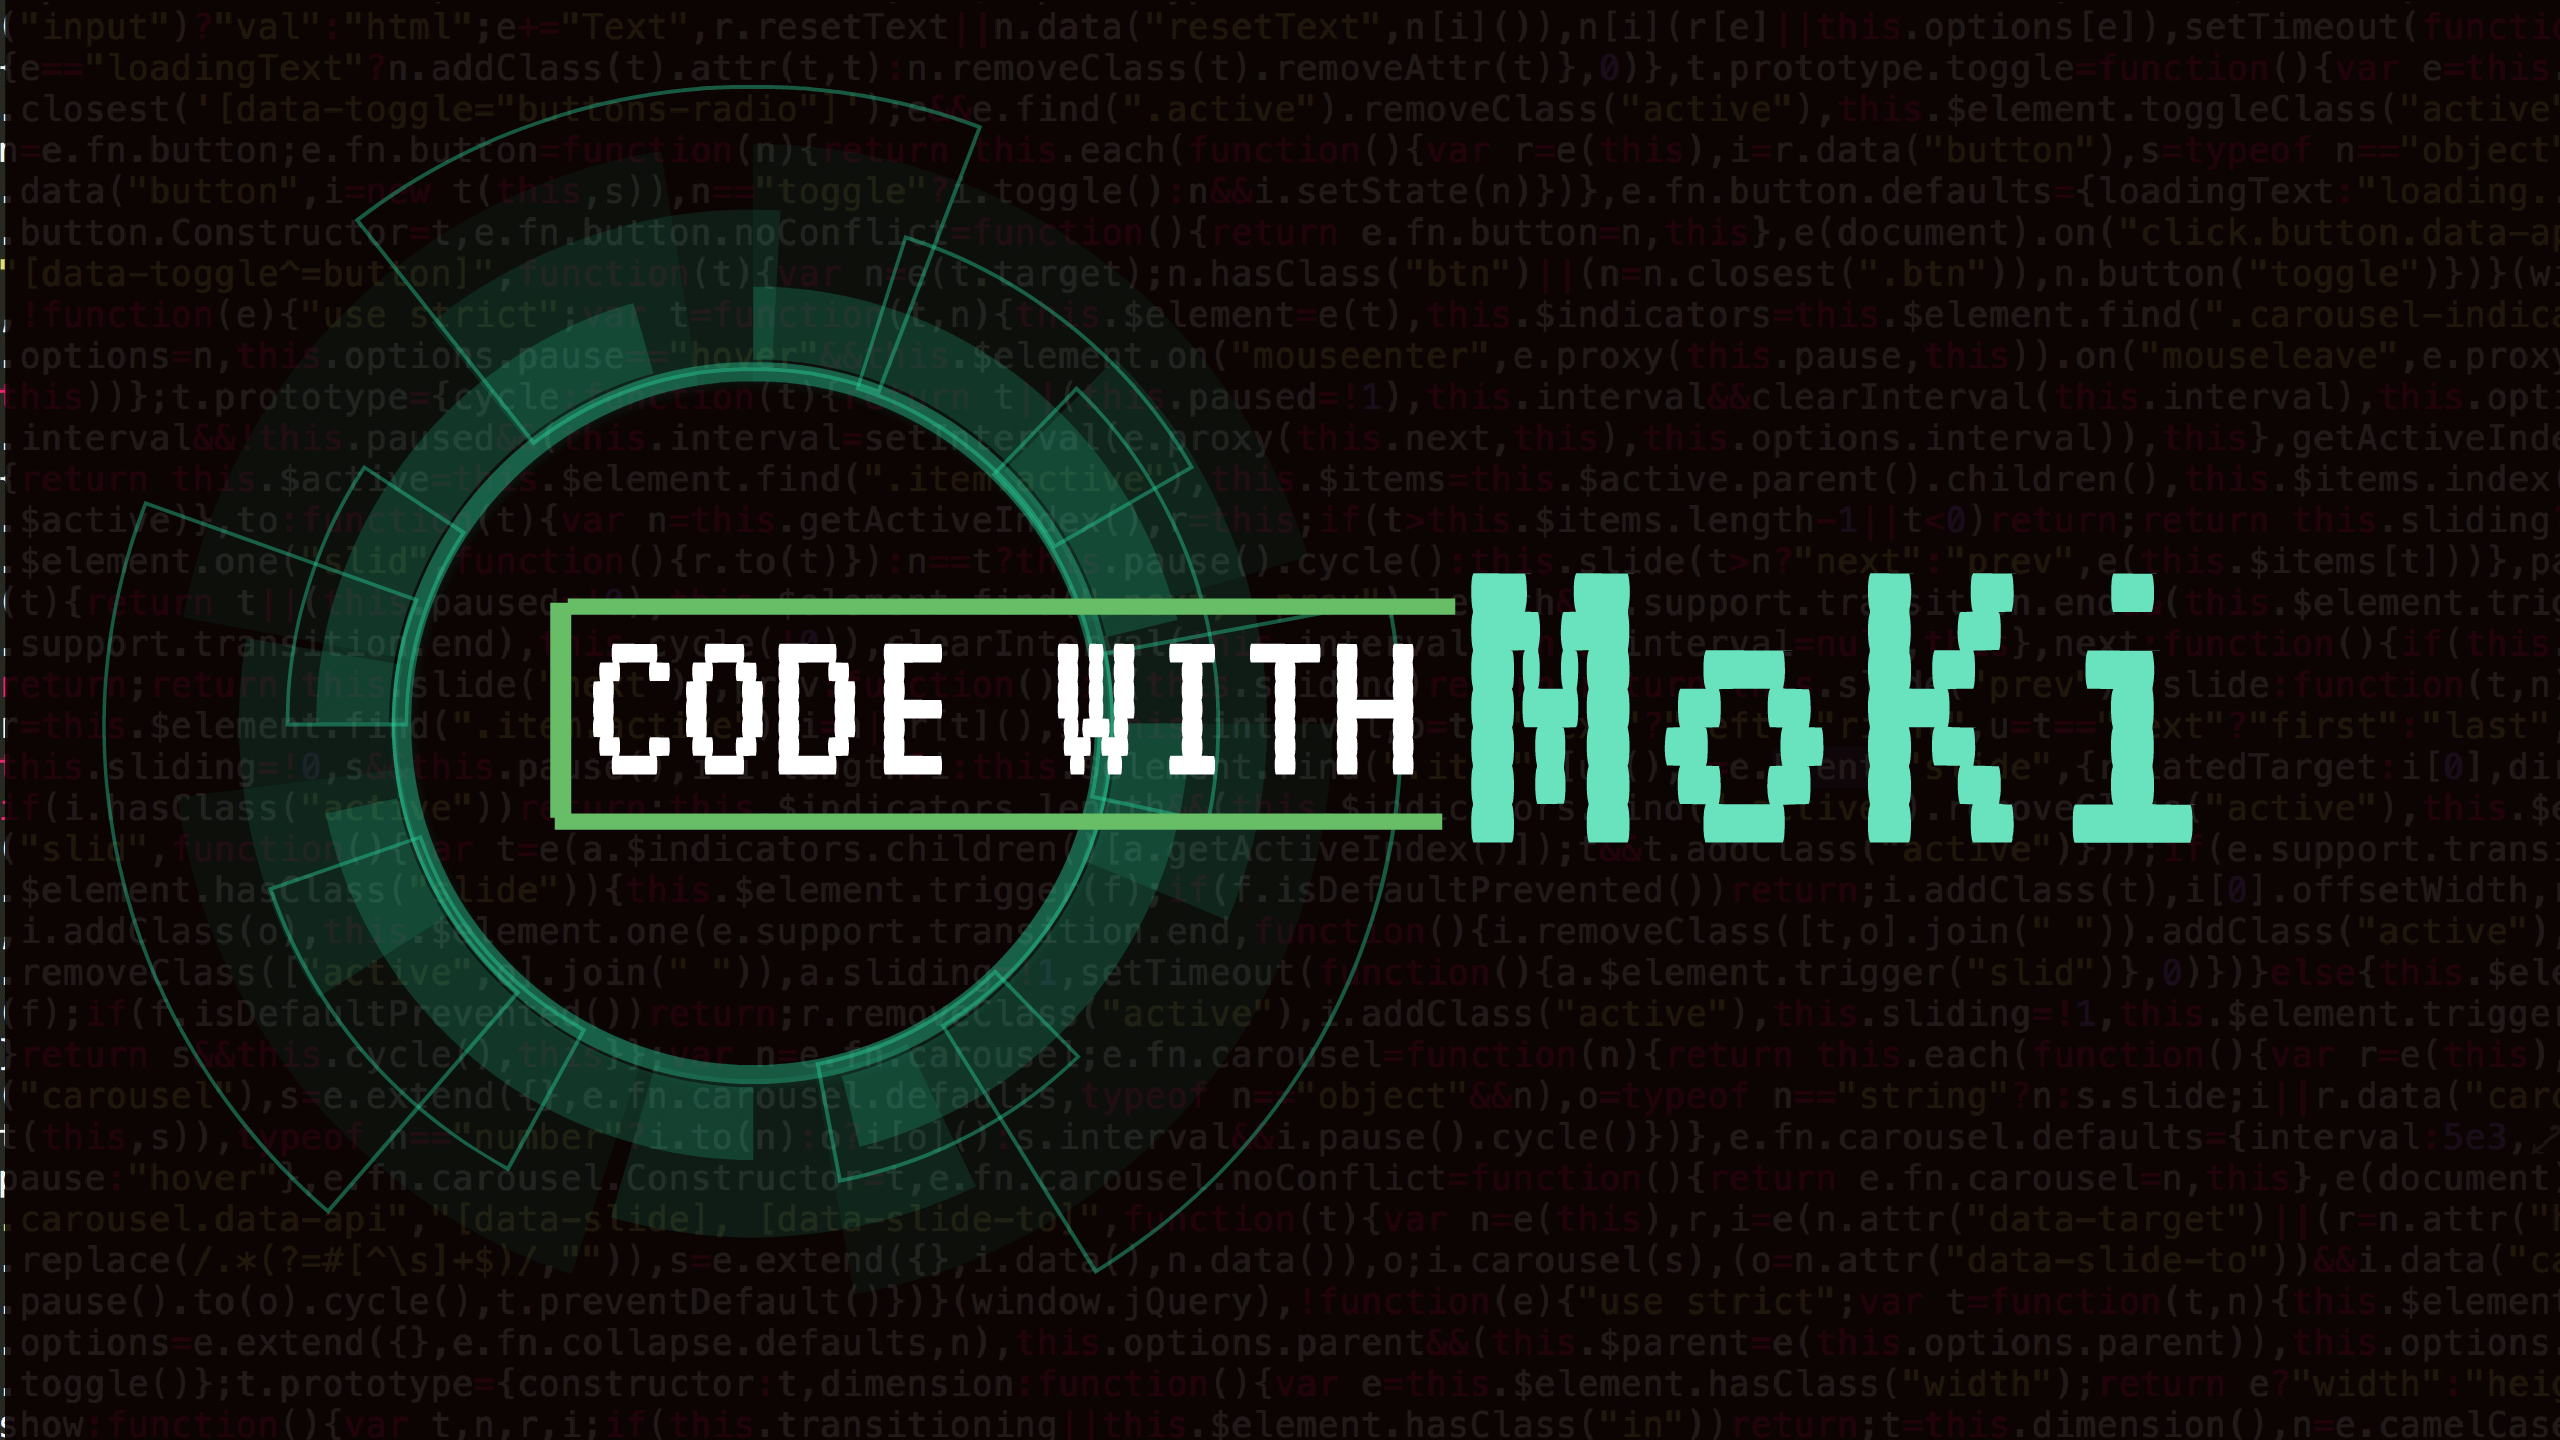
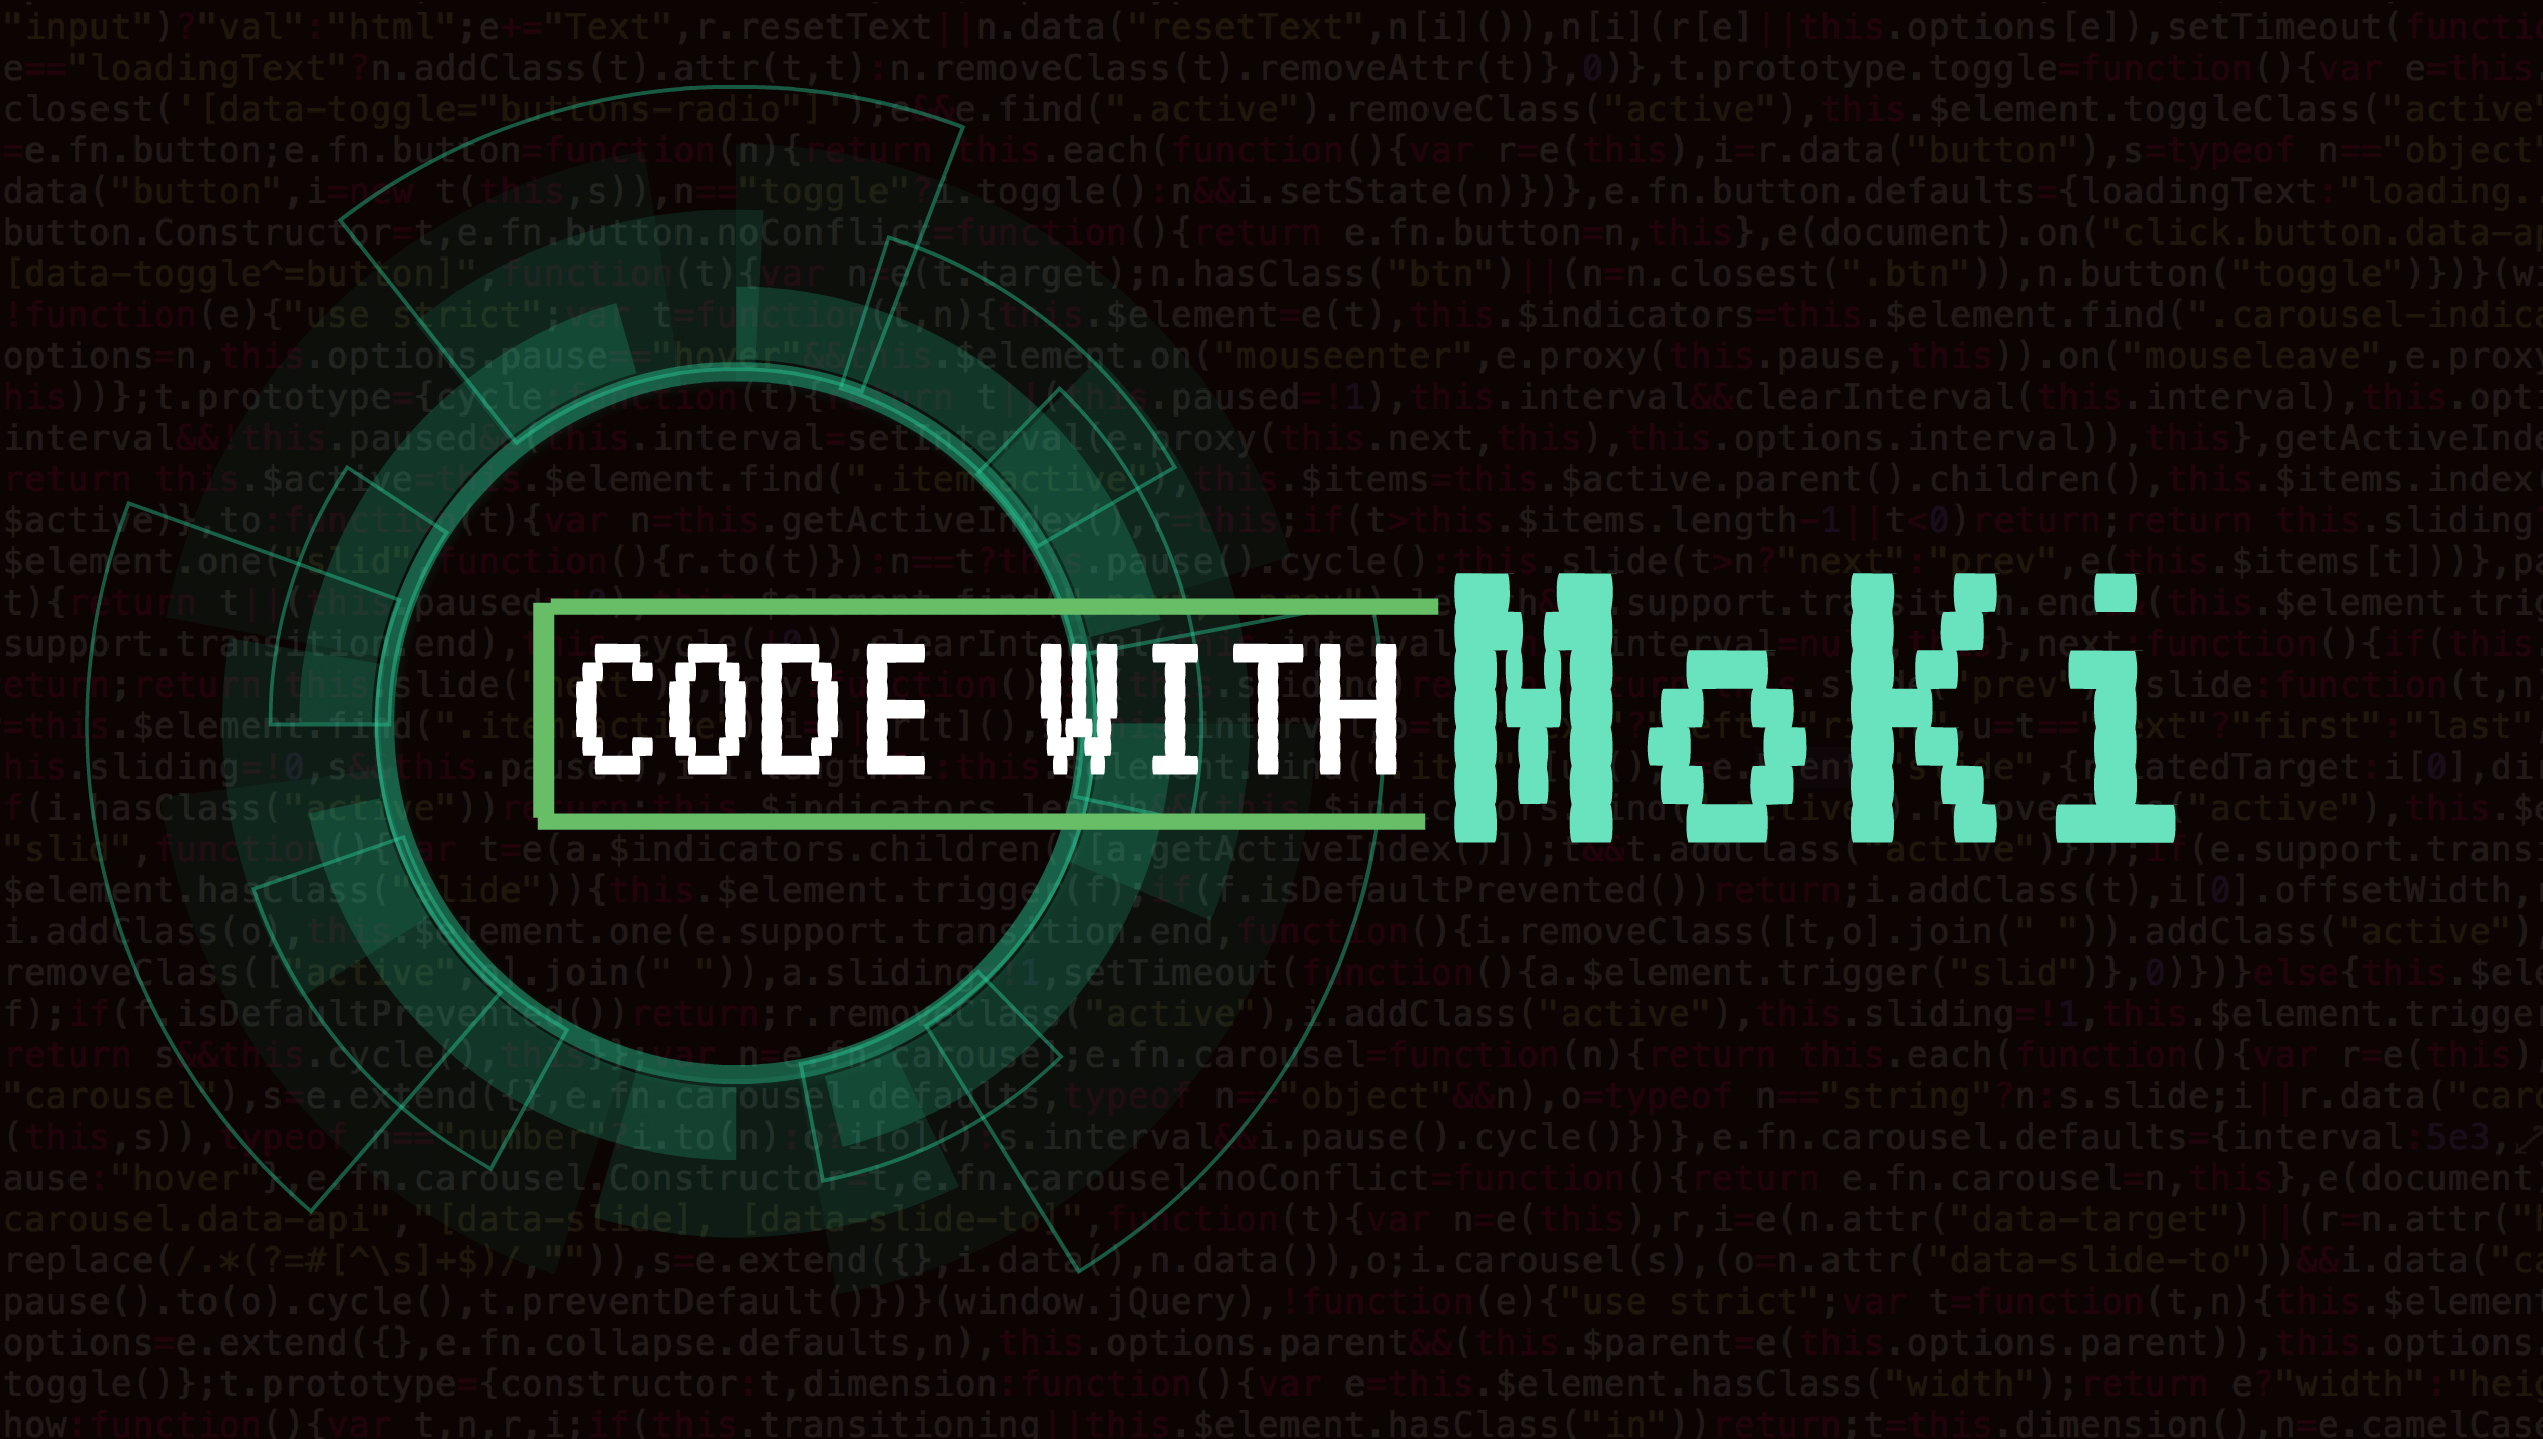
fluid

diff --git a/index.html b/index.html
@@ -18,15 +18,15 @@
 
   <!-- Custom styles for this template -->
   <link href="css/heroic-features.css" rel="stylesheet">
-  
+
 
 </head>
 
-<body>
+<body class="bg-dark">
 
   <!-- Navigation -->
   <nav class="navbar navbar-expand-lg navbar-dark bg-dark fixed-top">
-    <div class="container bg-dark">
+    <div class="container">
       <a class="navbar-brand" href="#">Start Bootstrap</a>
       <button class="navbar-toggler" type="button" data-toggle="collapse" data-target="#navbarResponsive" aria-controls="navbarResponsive" aria-expanded="false" aria-label="Toggle navigation">
         <span class="navbar-toggler-icon"></span>
@@ -53,21 +53,21 @@
   </nav>
 
   <!-- Page Content -->
-  <div class="container bg-dark">
+  <div class="container-fluid bg-dark">
 
     <!-- Jumbotron Header -->
-    <header class="jumbotron my-4">
-      <h1 class="display-3">Morgan King</h1>
-      <p class="lead">Thanks for coming to visit my profile page.</p>
-      <a href="#" class="btn btn-primary btn-lg">About me</a>
+    <header class="jumbotron jumbotron-fluid my-4" id="jumbo">
+      <!-- <h1 class="display-3">Morgan King</h1>
+      <p class="lead">Thanks for coming to visit my profile page.</p> -->
     </header>
 
     <!-- Page Features -->
     <div class="row text-center">
 
+            <!-- card #1 -->
       <div class="col-lg-3 col-md-6 mb-4">
         <div class="card h-100">
-          <img class="card-img-top" src="/images/facewho.PNG" alt="">
+          <img class="card-img-top" src="/images/facewho.PNG" alt="faceWho pic">
           <div class="card-body">
             <h4 class="card-title">Face Who</h4>
             <p class="card-text">This is a face recognition app.</p>
@@ -96,41 +96,69 @@
           </div>
         </div>
       </div>
+
+            <!-- card #2 -->
       <div class="col-lg-3 col-md-6 mb-4">
         <div class="card h-100">
-          <img class="card-img-top" src="http://placehold.it/500x325" alt="">
+          <img class="card-img-top" src="/images/facewho.PNG" alt="faceWho pic">
           <div class="card-body">
-            <h4 class="card-title">Card title</h4>
-            <p class="card-text">Lorem ipsum dolor sit amet, consectetur adipisicing elit. Explicabo magni sapiente, tempore debitis beatae culpa natus architecto.</p>
+            <h4 class="card-title">Face Who</h4>
+            <p class="card-text">This is a face recognition app.</p>
           </div>
           <div class="card-footer">
-            <a href="#" class="btn btn-primary">Find Out More!</a>
+            <button type="button" class="btn btn-primary" data-toggle="modal" data-target="#myModal">What's inside?</button>
+            <div class="modal fade" id="myModal">
+              <div class="modal-dialog modal-dialog-centered">
+                <div class="modal-content">
+                  <!-- Modal Header -->
+                  <div class="modal-header">
+                    <h4 class="modal-title">Modal Heading</h4>
+                    <button type="button" class="close" data-dismiss="modal">&times;</button>
+                  </div>
+                  <!-- Modal body -->
+                  <div class="modal-body">
+                    https://www.moki929.space/.
+                  </div>
+                  <!-- Modal footer -->
+                  <div class="modal-footer">
+                    <button type="button" class="btn btn-secondary" data-dismiss="modal">Close</button>
+                  </div>
+                </div>
+              </div>
+            </div>
           </div>
         </div>
       </div>
 
+      <!-- card #3 -->
       <div class="col-lg-3 col-md-6 mb-4">
         <div class="card h-100">
-          <img class="card-img-top" src="http://placehold.it/500x325" alt="">
+          <img class="card-img-top" src="/images/facewho.PNG" alt="faceWho pic">
           <div class="card-body">
-            <h4 class="card-title">Card title</h4>
-            <p class="card-text">Lorem ipsum dolor sit amet, consectetur adipisicing elit. Sapiente esse necessitatibus neque.</p>
+            <h4 class="card-title">Face Who</h4>
+            <p class="card-text">This is a face recognition app.</p>
           </div>
           <div class="card-footer">
-            <a href="#" class="btn btn-primary">Find Out More!</a>
-          </div>
-        </div>
-      </div>
-
-      <div class="col-lg-3 col-md-6 mb-4">
-        <div class="card h-100">
-          <img class="card-img-top" src="http://placehold.it/500x325" alt="">
-          <div class="card-body">
-            <h4 class="card-title">Card title</h4>
-            <p class="card-text">Lorem ipsum dolor sit amet, consectetur adipisicing elit. Explicabo magni sapiente, tempore debitis beatae culpa natus architecto.</p>
-          </div>
-          <div class="card-footer">
-            <a href="#" class="btn btn-primary">Find Out More!</a>
+            <button type="button" class="btn btn-primary" data-toggle="modal" data-target="#myModal">What's inside?</button>
+            <div class="modal fade" id="myModal">
+              <div class="modal-dialog modal-dialog-centered">
+                <div class="modal-content">
+                  <!-- Modal Header -->
+                  <div class="modal-header">
+                    <h4 class="modal-title">Modal Heading</h4>
+                    <button type="button" class="close" data-dismiss="modal">&times;</button>
+                  </div>
+                  <!-- Modal body -->
+                  <div class="modal-body">
+                    Modal body..
+                  </div>
+                  <!-- Modal footer -->
+                  <div class="modal-footer">
+                    <button type="button" class="btn btn-secondary" data-dismiss="modal">Close</button>
+                  </div>
+                </div>
+              </div>
+            </div>
           </div>
         </div>
       </div>

diff --git a/css/heroic-features.css b/css/heroic-features.css
@@ -6,3 +6,11 @@
 body {
   padding-top: 56px;
 }
+
+#jumbo {
+  background-image: url("../images/CodeWithMoki.png");
+  background-position: center;
+  background-repeat: no-repeat;
+  height: 400px;
+  background-size: cover;
+}
